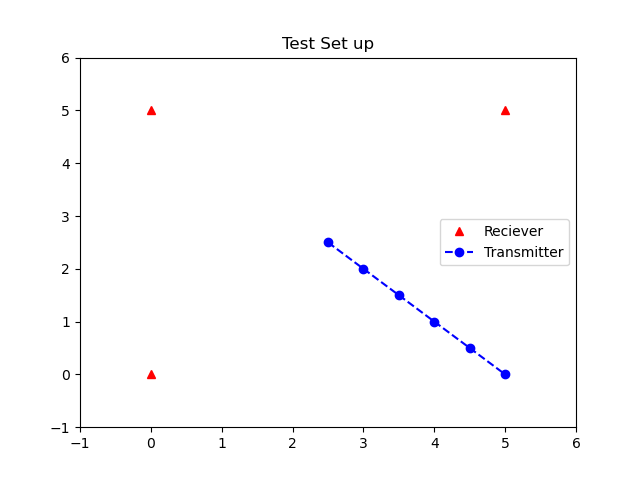
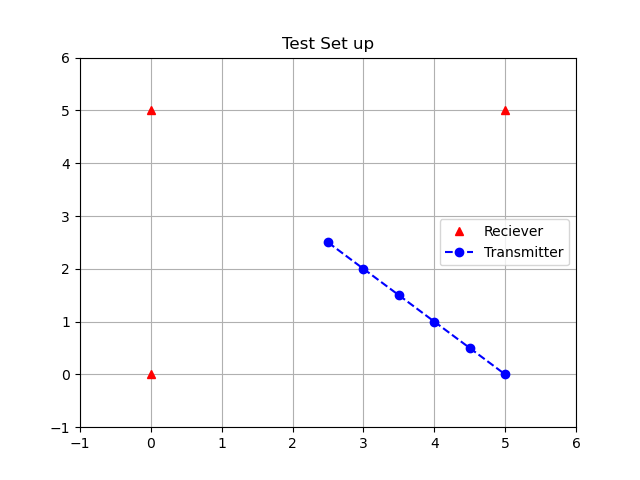
wip

diff --git a/Analytics/LocationTracking.py b/Analytics/LocationTracking.py
@@ -2,6 +2,11 @@ import os
 import sys 
 import re 
 
+
+A = -34.3
+N = -24
+BASETEN = 10
+
 THIS_FOLDER = os.path.dirname(os.path.abspath(__file__))
 os.chdir(THIS_FOLDER)
 
@@ -16,6 +21,11 @@ class XbeeTracker:
         self.rxA_rssi = [] 
         self.rxB_rssi = [] 
         self.rxC_rssi = []
+        self.rxA_dist = [] 
+        self.rxB_dist = [] 
+        self.rxC_dist = []
+        self.x_coord = [] 
+        self.y_coord = []
 
     def ReadFile(self):
         try:
@@ -33,6 +43,10 @@ class XbeeTracker:
         pattern = re.compile(r'(RECEIVER_\w)\s+:\s+(-?\d+)\s+dBm')
         self.matches = pattern.finditer(self.text_contents)
 
+    def ComputeDistance(self, rssi_arr, dist_arr):
+        for i in range(len(rssi_arr)):
+            dist_arr.append(BASETEN ** ((rssi_arr[i]-A)/N))
+
     def Parse(self):
         self.ReadFile()
         self.SearchText()
@@ -49,12 +63,21 @@ class XbeeTracker:
                 self.rxC_rssi.append(float(match.group(2)))
 
             #print('{}: {}'.format(match.group(1), match.group(2)))
+        
+        self.ComputeDistance(self.rxA_rssi, self.rxA_dist)
+        self.ComputeDistance(self.rxB_rssi, self.rxB_dist)
+        self.ComputeDistance(self.rxC_rssi, self.rxC_dist)
 
         print('{}: {}'.format(self.rxA_id, self.rxA_rssi))
         print('{}: {}'.format(self.rxB_id, self.rxB_rssi))
         print('{}: {}'.format(self.rxC_id, self.rxC_rssi))
 
+        print('{}: {}'.format(self.rxA_id, self.rxA_dist))
+        print('{}: {}'.format(self.rxB_id, self.rxB_dist))
+        print('{}: {}'.format(self.rxC_id, self.rxC_dist))
 
-TX = XbeeTracker('Data1.txt')
+
+
+TX = XbeeTracker('Data2.txt')
 TX.Parse()
     

diff --git a/TestSetUp/TestLayout.py b/TestSetUp/TestLayout.py
@@ -2,16 +2,22 @@ import matplotlib.pyplot as plt
 import matplotlib.lines as mlines
 from matplotlib.legend_handler import HandlerLine2D
 
+fig, ax = plt.subplots()
 plt.title('Test Set up')
 
-#X coordinate, Y coordinate
+#X coordinates, Y coordinates
 plt.plot([0,0,5], [0,5,5], 'r^', label = 'Reciever')
 
-#X coordinate, Y coordinate
+#X coordinates, Y coordinates
 plt.plot([2.5, 3, 3.5, 4, 4.5, 5], [2.5, 2, 1.5, 1, 0.5, 0], 'bo-', label='Transmitter', linestyle='dashed')
+
+#plt.plot([2.5, 3, 3.5, 4, 4.5, 5], [3.5, 3, 2.5, 2, 1.5, 1], 'gs-', label='Measured')
 
 #X min, X max, Y min, Y max
 plt.axis([-1,6,-1,6])
+
+#grid 
+plt.grid()
 
 #legend 
 plt.legend() 
